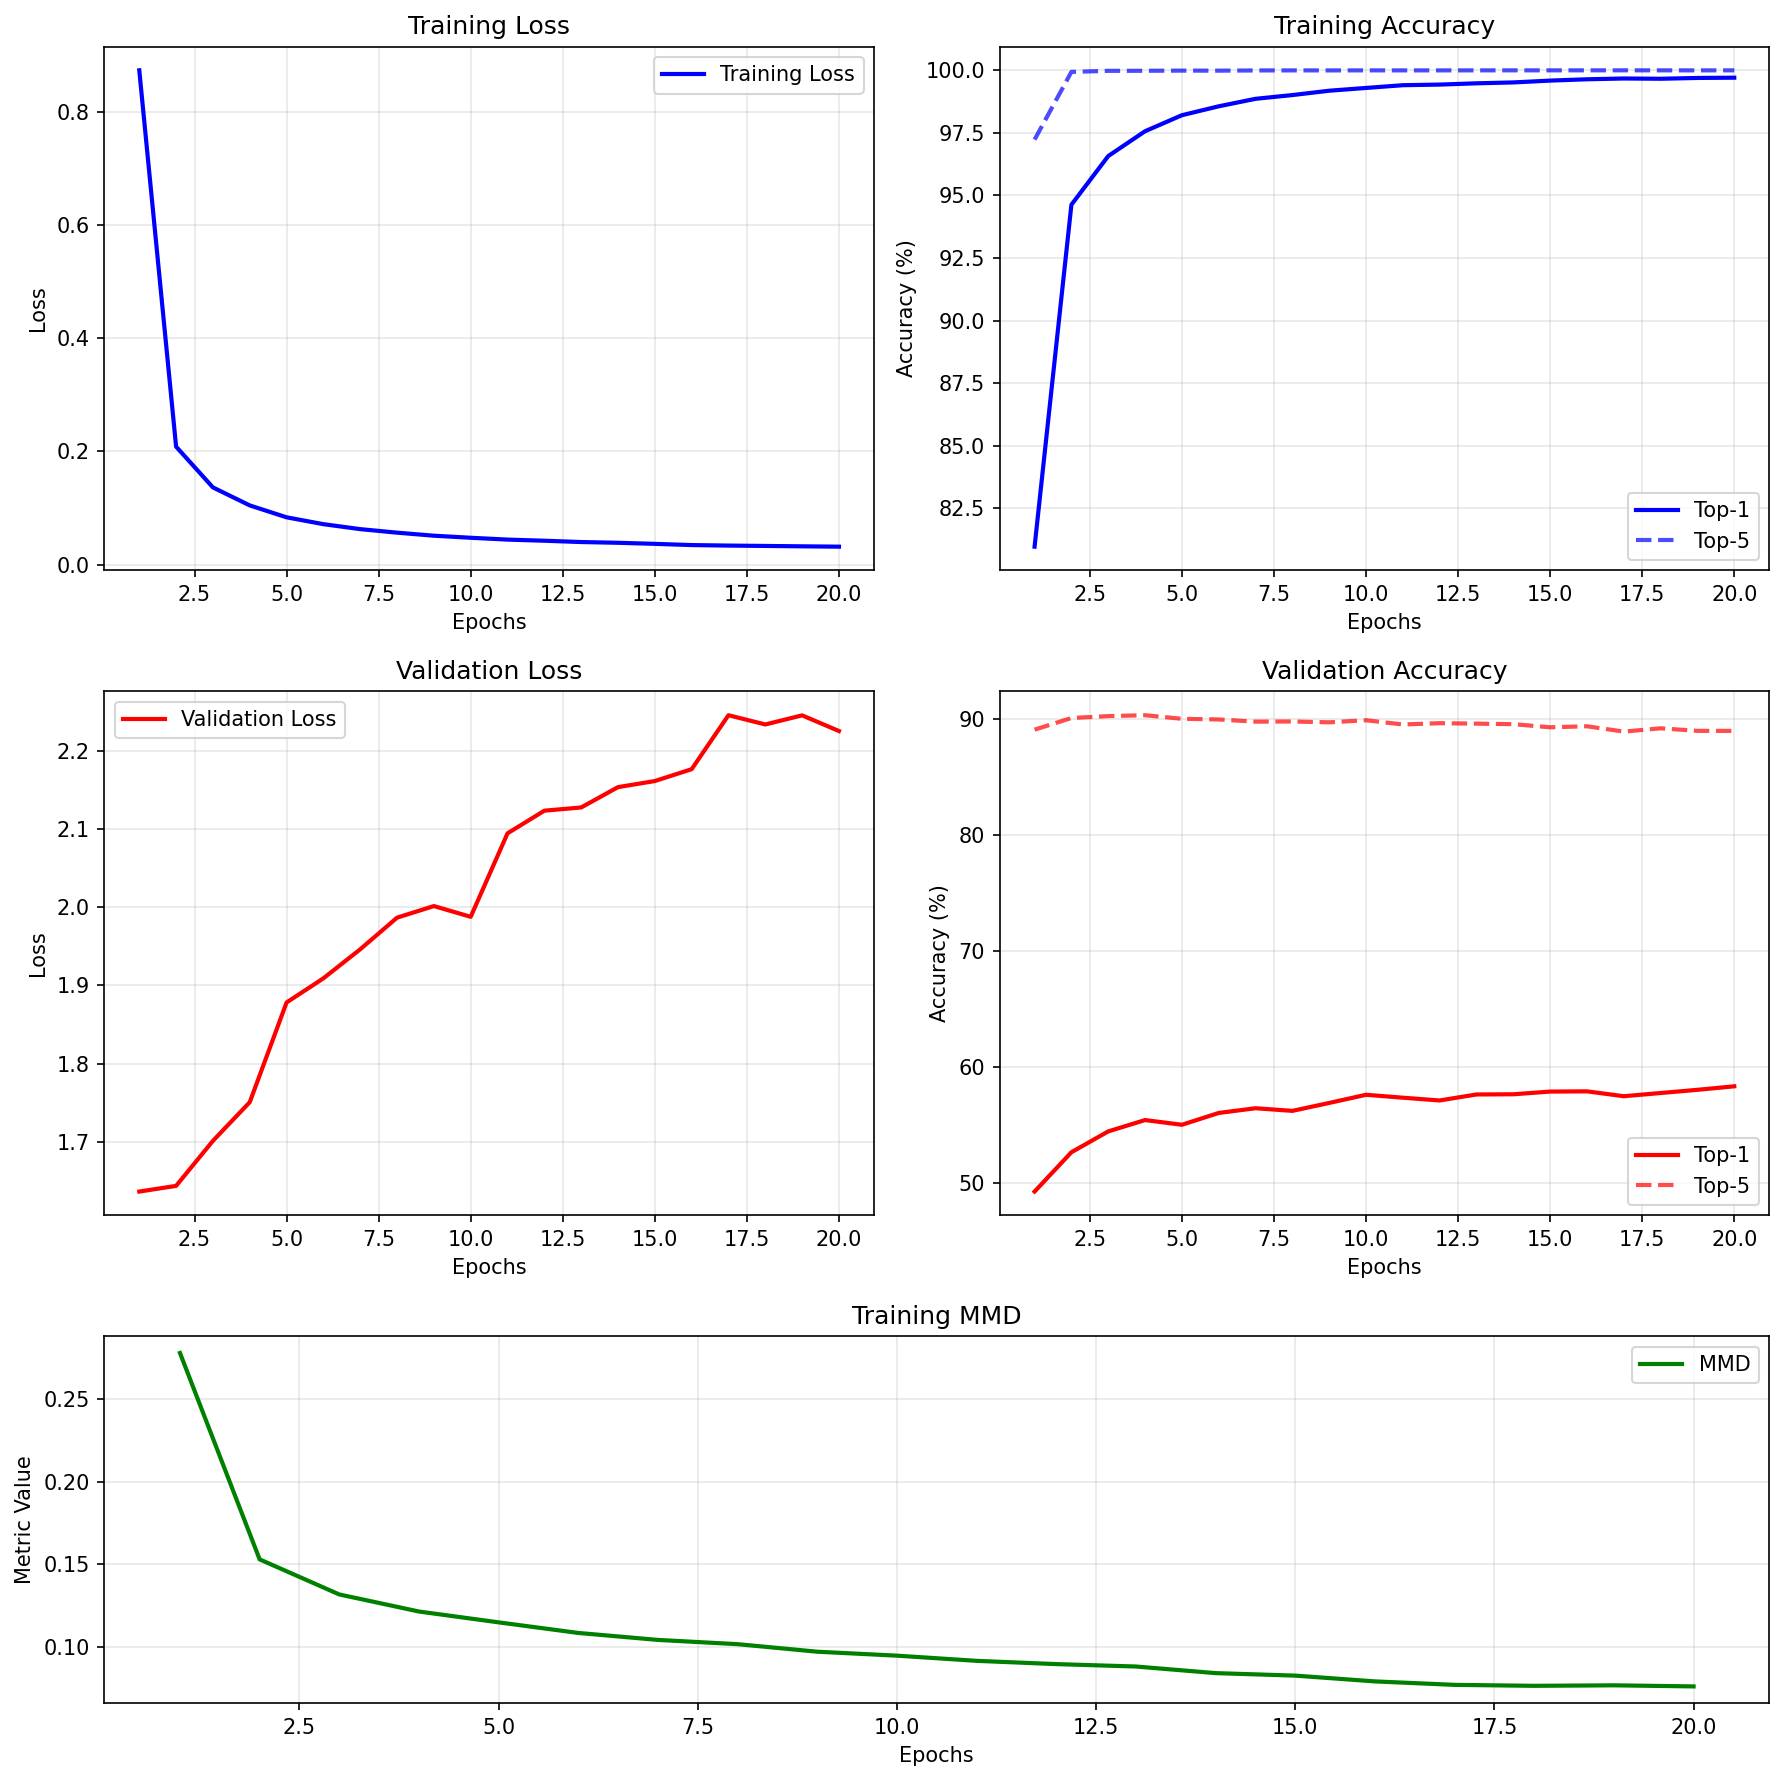
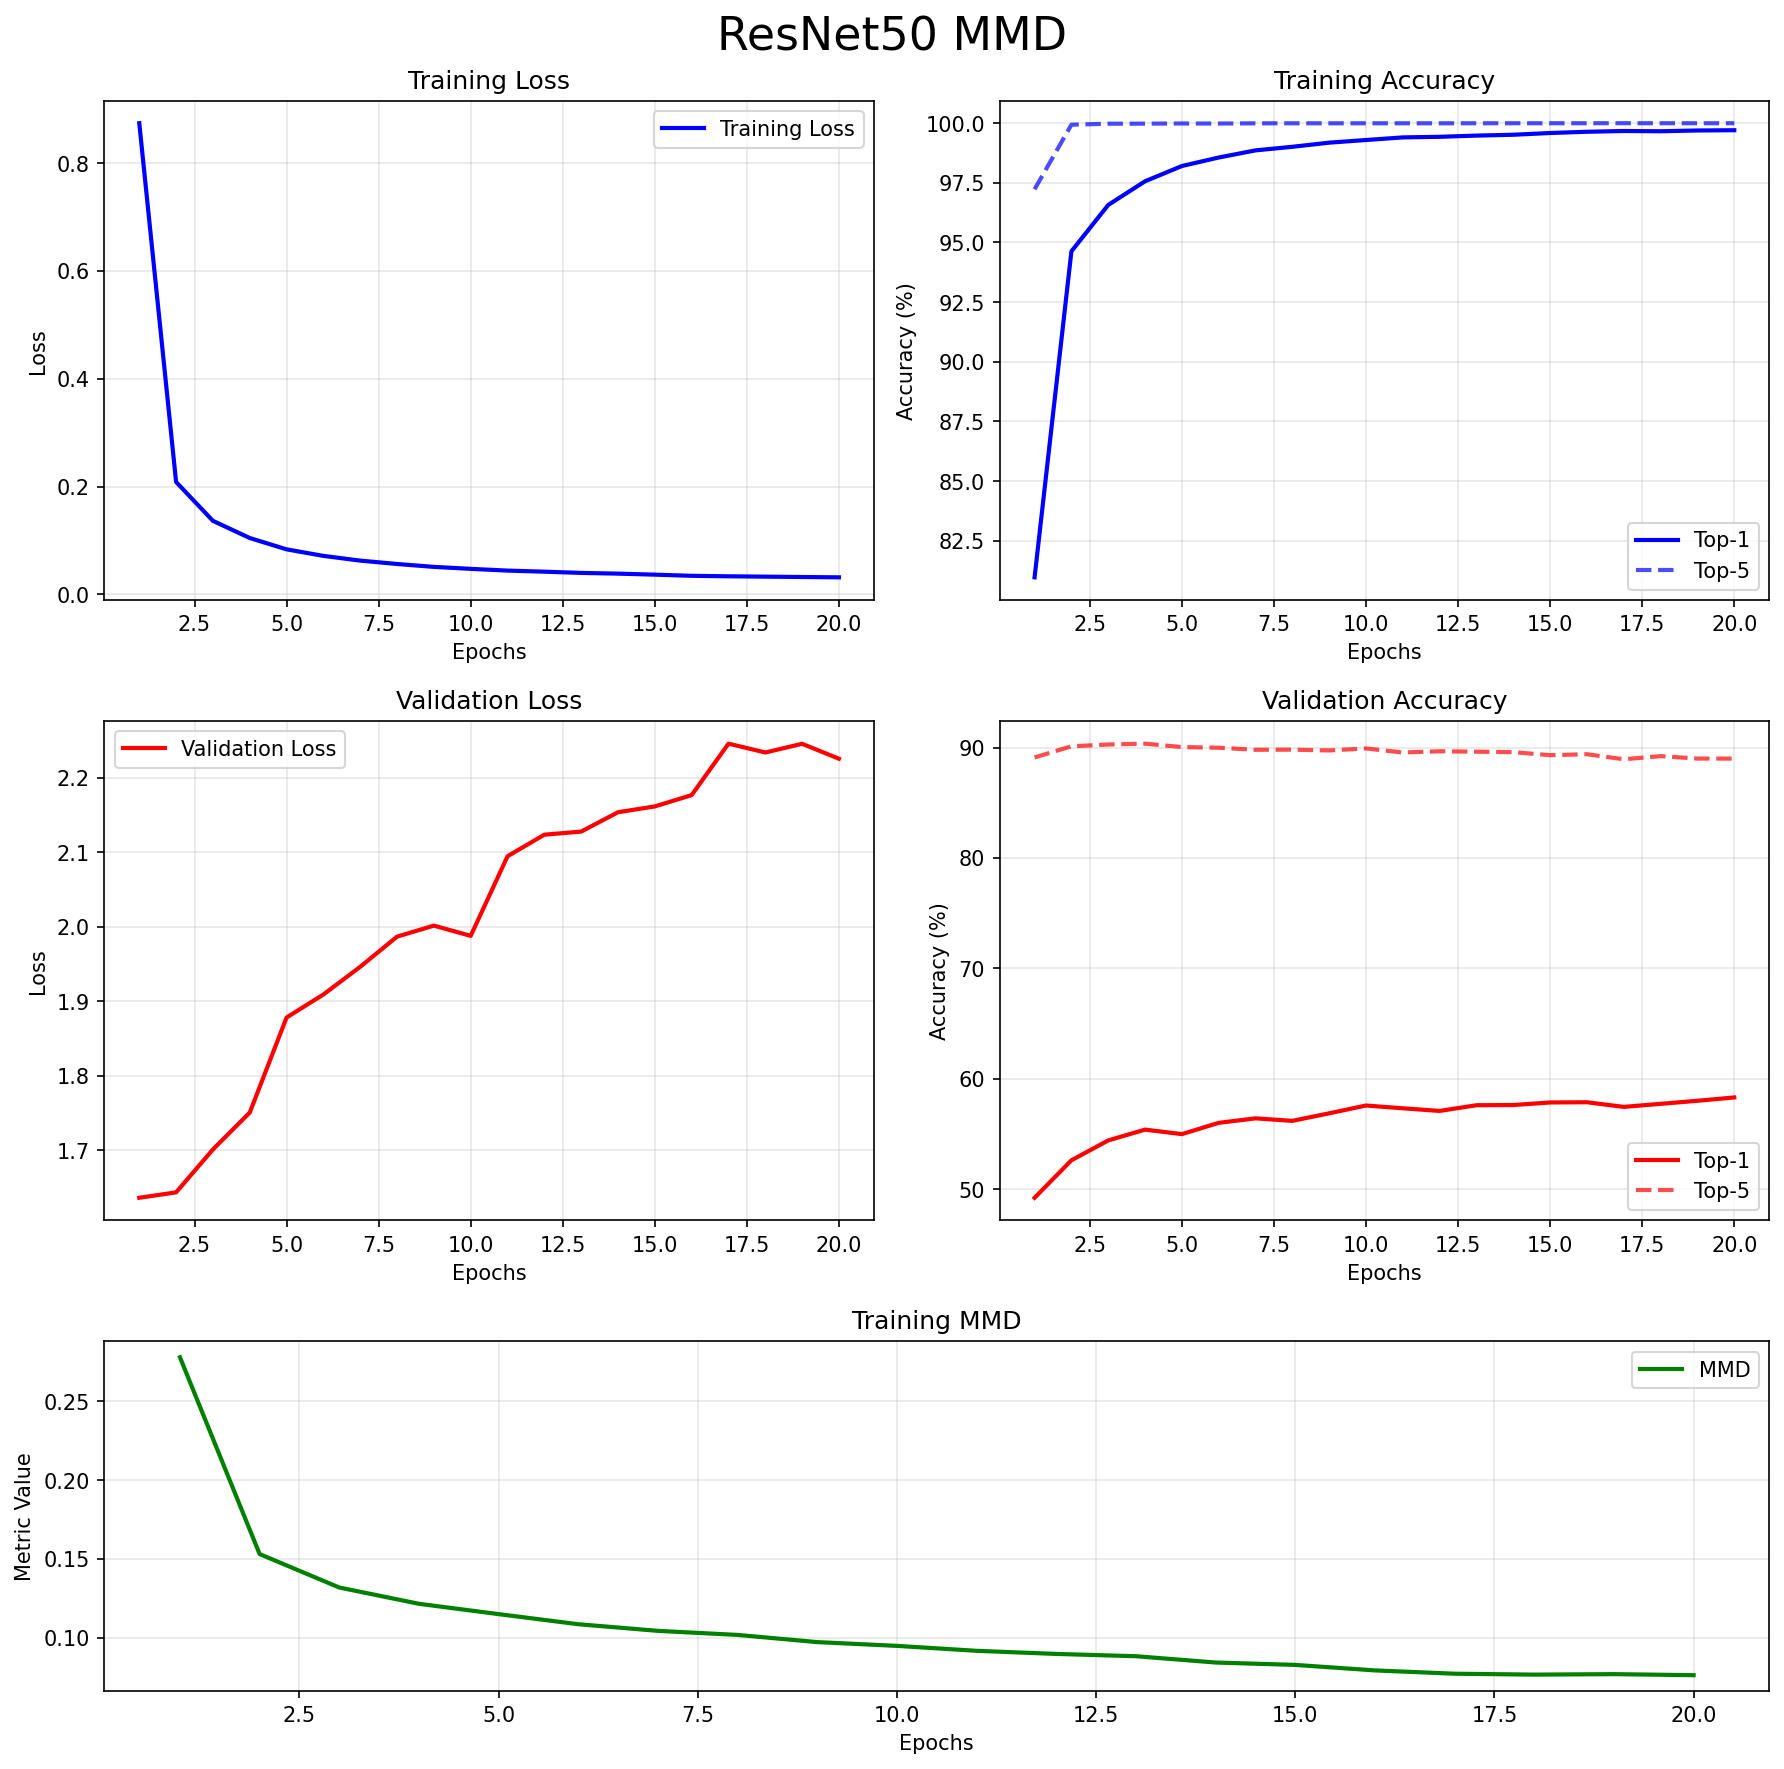
Added title to curves and updated analysis

diff --git a/tex/coursework.tex b/tex/coursework.tex
@@ -153,8 +153,8 @@ labels.
 The synthetic‑to‑real gap represents a particularly severe instance of domain shift. High‑quality rendered or simulated
 images differ markedly from real‑world photographs in texture, lighting, and background clutter. Large‑scale synthetic
 data can be generated from game engines~\cite{richter2016playing}, and adversarial refinement can improve
-photorealism~\cite{shrivastava2017learning}. Nevertheless, the domain shift caused by real‑world artefacts — variable
-illumination, blur, sensor noise — remains challenging. Standard robustness benchmarks such as
+photorealism~\cite{shrivastava2017learning}. Nevertheless, the domain shift caused by real‑world artefacts -- variable
+illumination, blur, sensor noise -- remains challenging. Standard robustness benchmarks such as
 ImageNet‑C~\cite{hendrycks2019benchmarking} systematically evaluate model sensitivity to common corruptions, yet they
 do not explicitly model the structured distribution mismatch between synthetic and real imagery. The VisDA‑2017
 dataset~\cite{visda2017} specifically targets this gap with a large‑scale 12‑class benchmark for synthetic‑to‑real
@@ -439,11 +439,11 @@ The results of experiment is shown in Figure~\ref{fig:resnet50_mmd}.
 \end{figure}
 
 The ResNet-50 with MMD achieves a validation Top-1 accuracy of 58.31\%, representing a substantial improvement over the
-baseline model, which only reached approximately 23\% on the target domain. This gain demonstrates that MMD alignment
+baseline model, which reached approximately 43.5\% on the target domain. This gain demonstrates that MMD alignment
 effectively reduces the domain shift between synthetic and real-world data. However, the persistent upward trend in
 validation loss—from 1.65 to 2.25—indicates that overfitting to the source distribution remains, and the model
-continues to struggle with perfect cross-domain generalization. Despite this, the 35-percentage-point accuracy increase
-confirms that MMD is a viable strategy for bridging the domain gap in this task.
+continues to struggle with perfect cross-domain generalization. Despite this, the ~15-percentage-point accuracy
+increase confirms that MMD is a viable strategy for bridging the domain gap in this task.
 
 \subsection{ViT-B/16 with Maximum Mean Discrepancy (MMD)}
 The patch embedding and positional encoding, along with the first eight encoder layers (\texttt{Encoder Layers 0--7} in
@@ -470,13 +470,14 @@ The results of experiment is shown in Figure~\ref{fig:vitb16_mmd}.
 \end{figure}
 
 The ViT-B/16 with MMD achieves a final validation Top-1 accuracy of 70.76\% (with a peak of 72.16\% at epoch 14),
-representing a dramatic improvement over the baseline ViT-B/16 trained only on source domain, which stagnated at
-approximately 25\% on the target domain. While training loss decreases rapidly from 0.37 to 0.07 and training accuracy
-approaches 99.5\%, validation loss remains volatile and exhibits an overall upward trend from 1.21 to 1.25, indicating
-persistent overfitting to the source distribution. Validation Top-5 accuracy plateaus around 92\%, suggesting the model
-consistently captures the correct class within its top predictions but struggles with precise ranking. Although the
-45-percentage-point gain over the baseline confirms the effectiveness of MMD for bridging the domain gap, the unstable
-validation loss and non-monotonic accuracy improvements suggest that further fine-tuning of the \(\lambda\) parameter.
+representing a dramatic improvement over the baseline ViT-B/16 trained only on the source domain, which stagnated at
+approximately 58.5\% on the target domain. While training loss decreases rapidly from 0.37 to 0.07 and training
+accuracy approaches 99.5\%, validation loss remains volatile and exhibits an overall upward trend from 1.21 to 1.25,
+indicating persistent overfitting to the source distribution. Validation Top-5 accuracy plateaus around 92\%,
+suggesting the model consistently captures the correct class within its top predictions but struggles with precise
+ranking. Although the ~12-percentage-point gain over the baseline confirms the effectiveness of MMD for bridging the
+domain gap, the unstable validation loss and non-monotonic accuracy improvements suggest that further fine-tuning of
+the \(\lambda\) parameter may be necessary.
 
 \subsection{ResNet-50 with Correlation Alignment (CORAL)}
 

diff --git a/plot_metrics.py b/plot_metrics.py
@@ -6,7 +6,7 @@ import argparse
 import sys
 
 
-def plot_training_metrics(metrics_dict: dict[str, list[int | float]]):
+def plot_training_metrics(metrics_dict: dict[str, list[int | float]], title: str | None = None):
     """
     Plot training and validation metrics from a dictionary.
     Training and validation are drawn in separate axes for clarity.
@@ -81,6 +81,9 @@ def plot_training_metrics(metrics_dict: dict[str, list[int | float]]):
         ax_additional.legend()
         ax_additional.grid(True, alpha=0.3)
 
+    if title is not None:
+        fig.suptitle(title, fontsize=22)
+
     plt.tight_layout()
 
 
@@ -96,6 +99,14 @@ def main():
         '--file',
         dest='filename',
         help='Path to the JSON file containing training metrics (alternative to positional argument)',
+    )
+
+    parser.add_argument(
+        '-t',
+        '--title',
+        type=str,
+        default=None,
+        help='Set the plot title (default: no title)',
     )
 
     parser.add_argument(
@@ -127,7 +138,7 @@ def main():
         with open(filename, 'r') as file:
             metrics = json.load(file)
 
-        plot_training_metrics(metrics)
+        plot_training_metrics(metrics, args.title)
 
         # Save the plot if requested
         if args.save:
